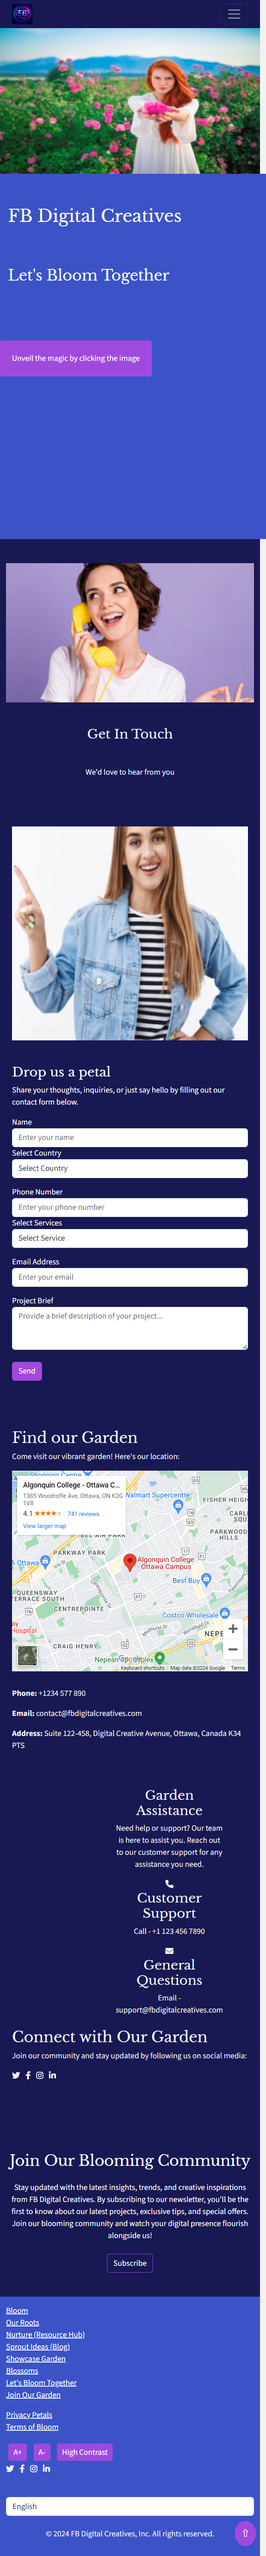
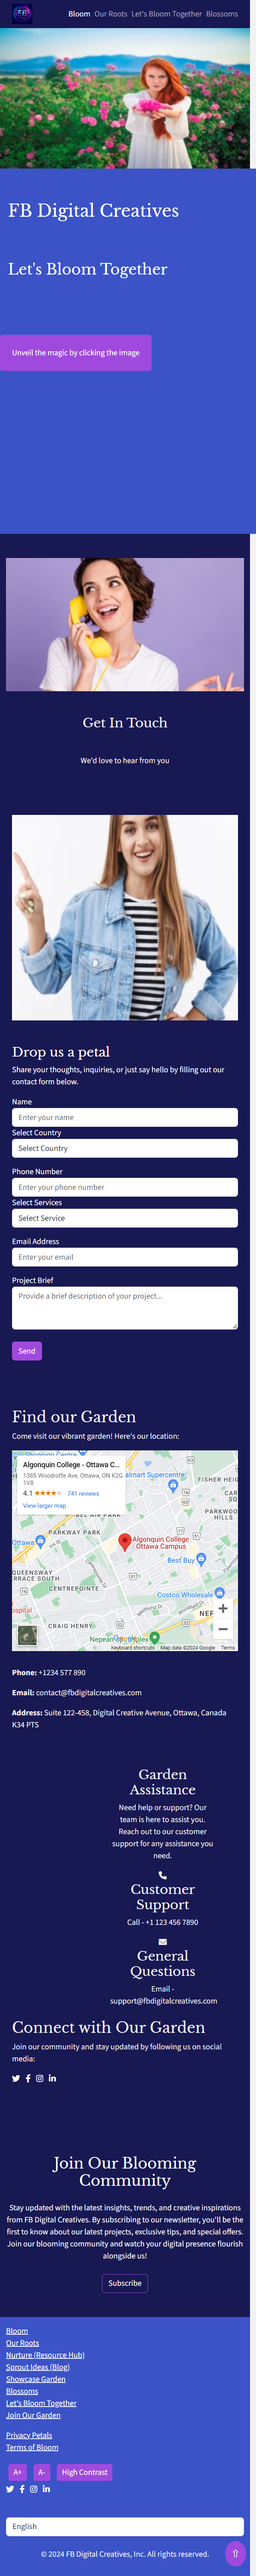
update

diff --git a/contact.html b/contact.html
@@ -54,7 +54,9 @@
   <header>
     <nav id="navigation" class="navbar bg-dark" data-bs-theme="dark" aria-label="Main navigation">
       <div class="container px-4 d-flex justify-content-between align-items-center">
-        <img src="images/logo.png" alt="FB Digital Creatives Logo" class="img-fluid me-2 logo" aria-label="Logo"> 
+        <a href="index.html" aria-label="Bloom">
+          <img src="images/logo.png" alt="FB Digital Creatives Logo" class="img-fluid me-2 logo">
+        </a> 
         <ul class="navbar-nav ms-auto d-flex flex-row">
             <li class="nav-item">
               <a class="nav-link active me-2" aria-current="page" href="index.html">Bloom</a>
@@ -63,7 +65,7 @@
               <a class="nav-link me-2" href="about.html">Our Roots</a>
             </li>
             <li class="nav-item">
-              <a class="nav-link me-2" href="contact.html">Let's Bloom Together</a>
+              <a class="nav-link me-2 text-white" href="contact.html">Let's Bloom Together</a>
             </li>
             <li class="nav-item">
             <li class="nav-item">

diff --git a/services.html b/services.html
@@ -54,7 +54,9 @@
   <header>
     <nav id="navigation" class="navbar bg-dark" data-bs-theme="dark" aria-label="Main navigation">
       <div class="container px-4 d-flex justify-content-between align-items-center">
-        <img src="images/logo.png" alt="FB Digital Creatives Logo" class="img-fluid me-2 logo" aria-label="Logo"> 
+        <a href="index.html" aria-label="Bloom">
+          <img src="images/logo.png" alt="FB Digital Creatives Logo" class="img-fluid me-2 logo">
+        </a>
         <ul class="navbar-nav ms-auto d-flex flex-row">
             <li class="nav-item">
               <a class="nav-link active me-2" aria-current="page" href="index.html">Bloom</a>
@@ -66,7 +68,7 @@
               <a class="nav-link me-2" href="contact.html">Let's Bloom Together</a>
             </li>
             <li class="nav-item">
-              <a class="nav-link" href="services.html">Blossoms</a>
+              <a class="nav-link text-white" href="services.html">Blossoms</a>
             </li>
           </ul>
       </div>

diff --git a/about.html b/about.html
@@ -54,13 +54,15 @@
   <header>
     <nav id="navigation" class="navbar bg-dark" data-bs-theme="dark" aria-label="Main navigation">
       <div class="container px-4 d-flex justify-content-between align-items-center">
-        <img src="images/logo.png" alt="FB Digital Creatives Logo" class="img-fluid me-2 logo" aria-label="Logo"> 
+        <a href="index.html" aria-label="Bloom">
+          <img src="images/logo.png" alt="FB Digital Creatives Logo" class="img-fluid me-2 logo">
+        </a>
         <ul class="navbar-nav ms-auto d-flex flex-row">
             <li class="nav-item">
               <a class="nav-link active me-2" aria-current="page" href="index.html">Bloom</a>
             </li>
             <li class="nav-item">
-              <a class="nav-link me-2" href="about.html">Our Roots</a>
+              <a class="nav-link me-2 text-white" href="about.html">Our Roots</a>
             </li>
             <li class="nav-item">
               <a class="nav-link me-2" href="contact.html">Let's Bloom Together</a>

diff --git a/index.html b/index.html
@@ -55,10 +55,12 @@
   <header>
     <nav id="navigation" class="navbar bg-dark" data-bs-theme="dark" aria-label="Main navigation">
       <div class="container px-4 d-flex justify-content-between align-items-center">
-        <img src="images/logo.png" alt="FB Digital Creatives Logo" class="img-fluid me-2 logo" aria-label="Logo"> 
+        <a href="index.html" aria-label="Bloom">
+          <img src="images/logo.png" alt="FB Digital Creatives Logo" class="img-fluid me-2 logo">
+        </a>
         <ul class="navbar-nav ms-auto d-flex flex-row">
             <li class="nav-item">
-              <a class="nav-link active me-2" aria-current="page" href="index.html">Bloom</a>
+              <a class="nav-link active me-2 text-white" aria-current="page" href="index.html">Bloom</a>
             </li>
             <li class="nav-item">
               <a class="nav-link me-2" href="about.html">Our Roots</a>
